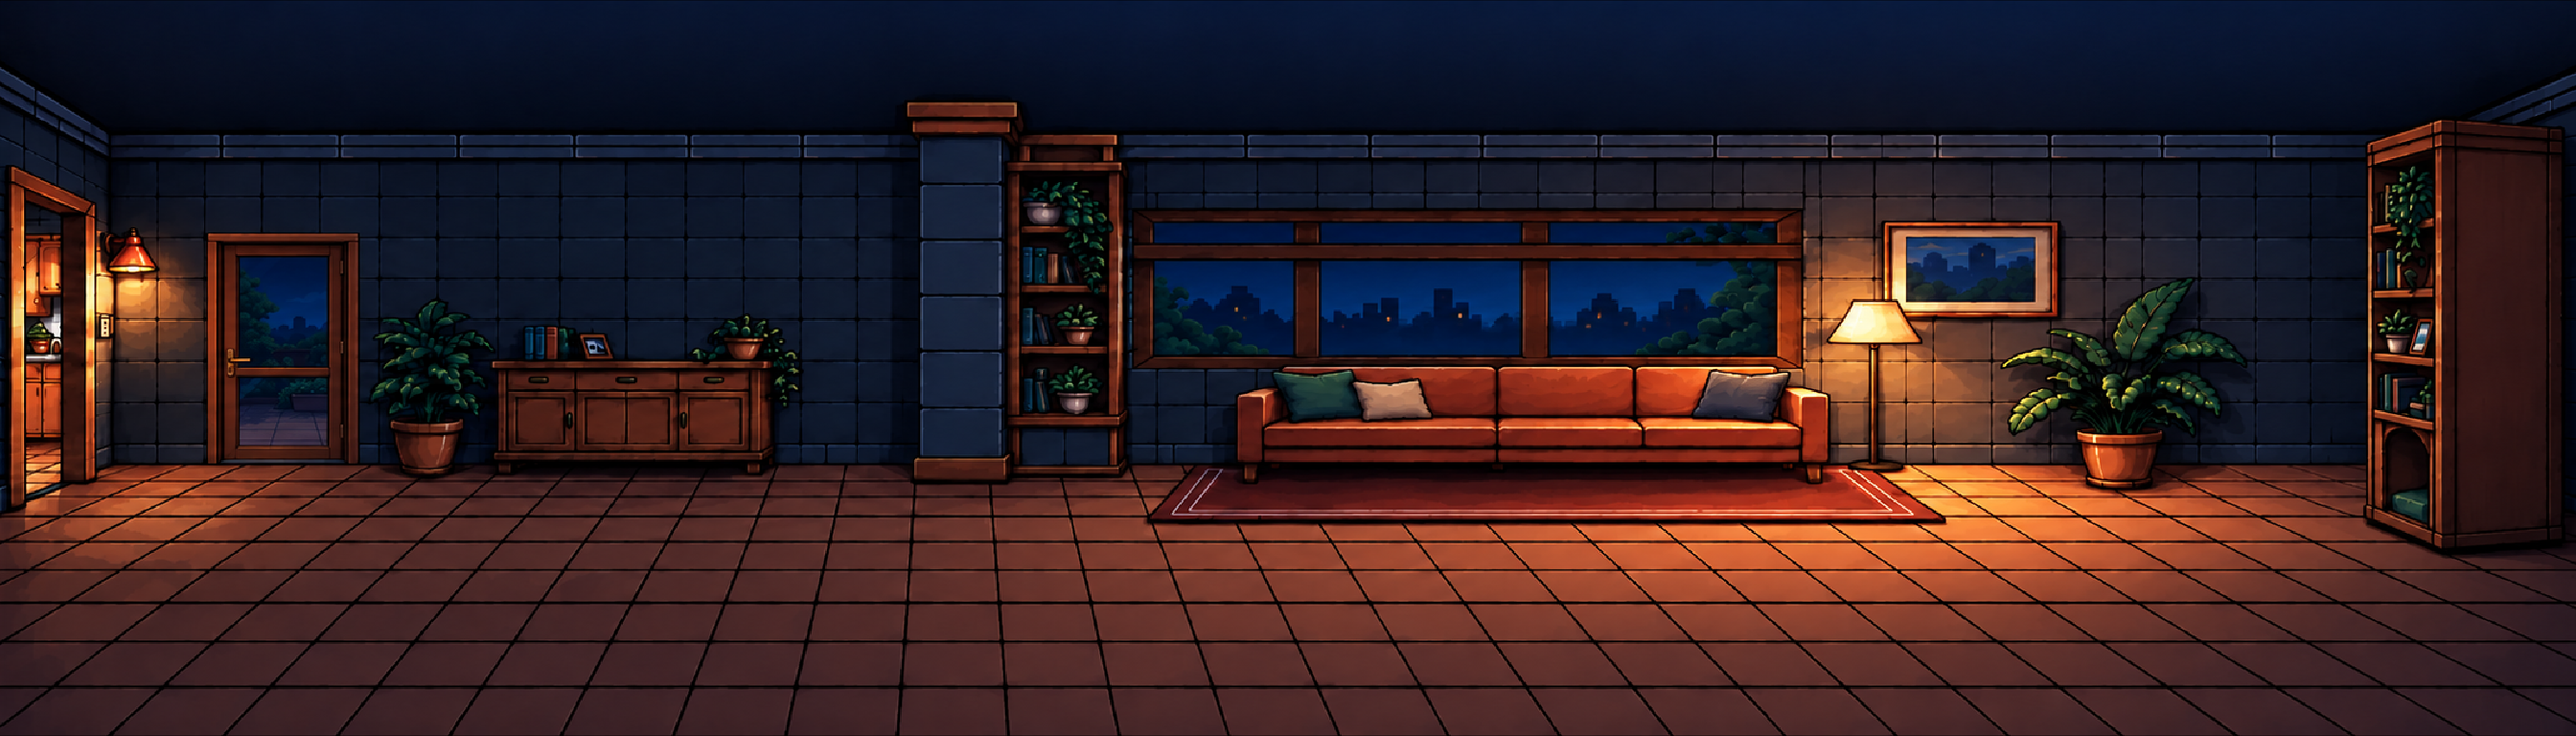
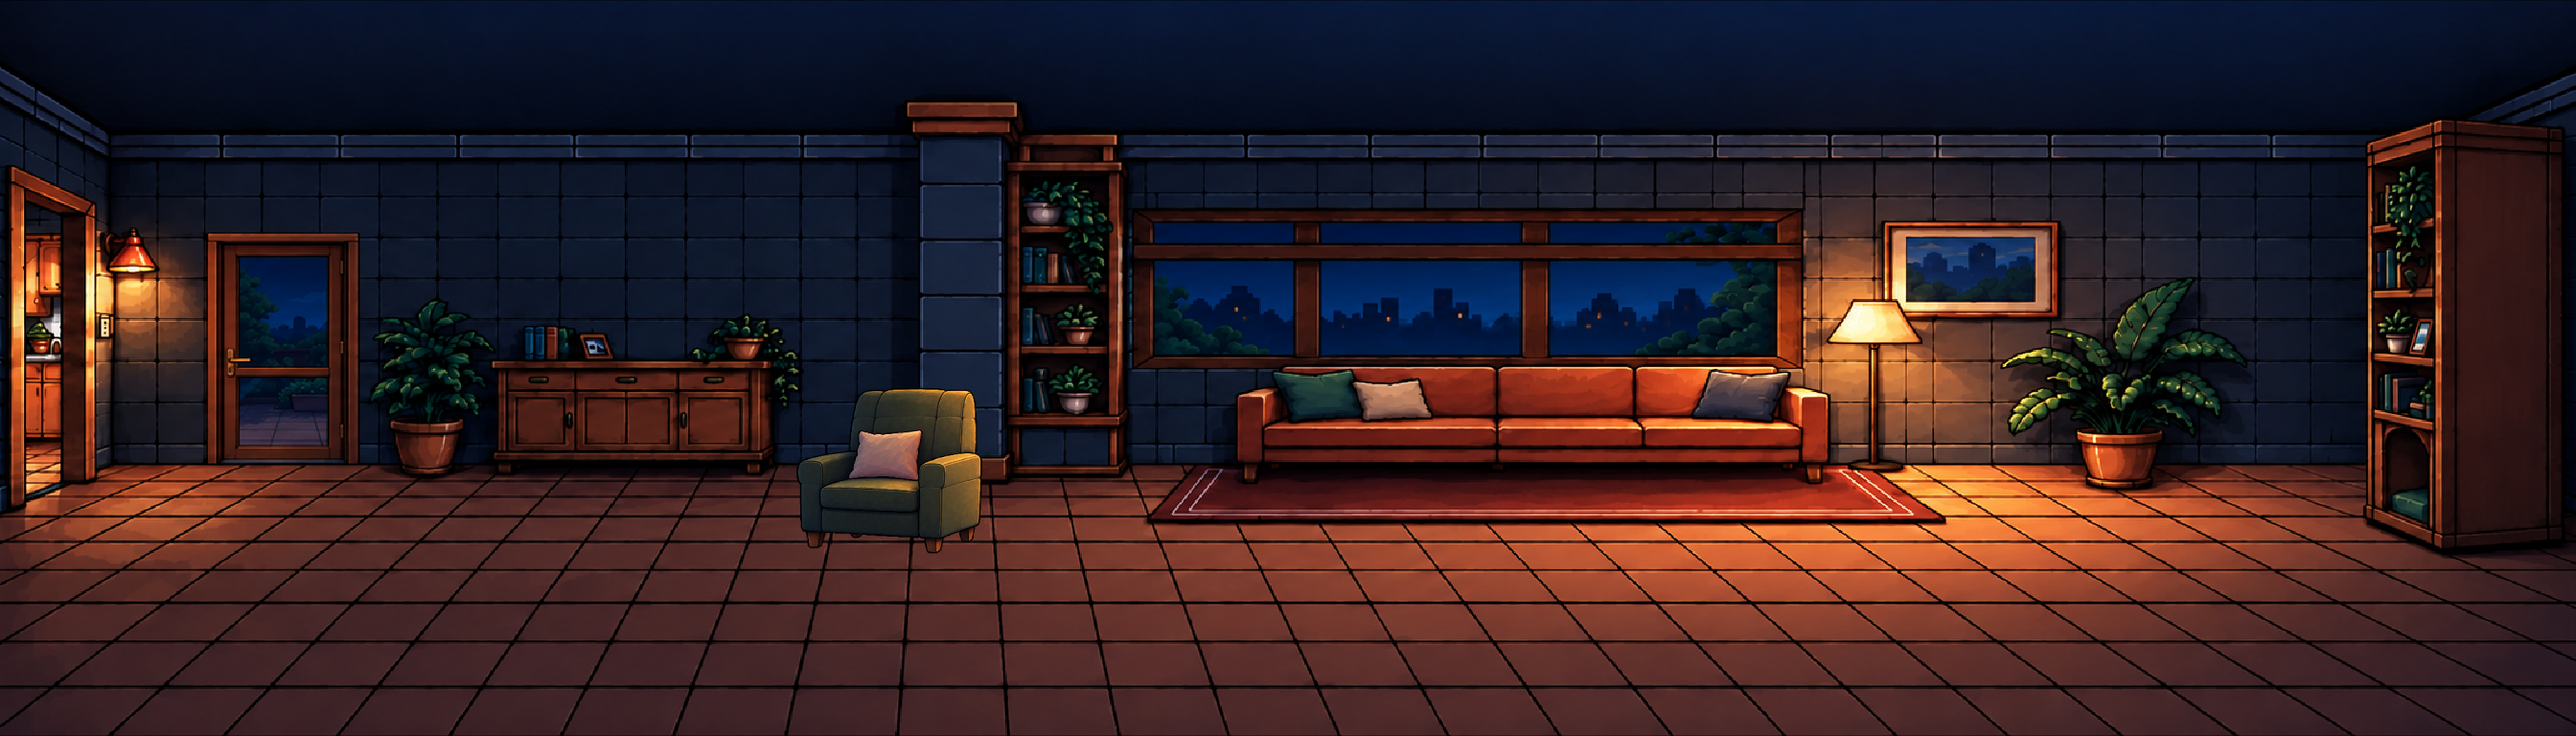
se acomoda al dueño en el living de noche

Changed region(s): [[0.3125, 0.5312, 0.4062, 0.75]]

diff --git a/GameProyect/NivelLivingNoche.cpp b/GameProyect/NivelLivingNoche.cpp
@@ -20,7 +20,7 @@ NivelLivingNoche::NivelLivingNoche()
     duenia->configurarReinicioFueraDeCamara();
 
     Enemigo* duenio = agregarEnemigo("images/Enemigos/frames_enemigo_sofa_borracho.png", //dueño
-        { 890.f, 530.f },
+        { 930.f, 570.f },
         600,
         724,
         { 0.52f, 0.53f },
@@ -109,15 +109,6 @@ NivelLivingNoche::NivelLivingNoche()
         { 0.13f , 0.13f },
         sf::FloatRect(0.f, 0.f, 100.f, 100.f)
     );
-
-    // Sillon individual
-    agregarMueble(
-        "images/6-living_noche/Muebles/sillon_individual_nocturno.png",
-        { 820.f, 400.f },
-        { 0.7f, 0.7f },
-        sf::FloatRect(42.f, 160.f, 0.f, 0.f)
-    );
-
 
     // Mesa chica izquierda
     agregarMueble(

diff --git a/GameProyect/Juego.cpp b/GameProyect/Juego.cpp
@@ -7,6 +7,7 @@
 #include "NivelPatio.h"
 #include "NivelHabitacion.h"
 #include "NivelCocinaNoche.h"
+#include "NivelLivingNoche.h"
 #include <iostream>
 #include <algorithm>
 
@@ -570,6 +571,8 @@ Nivel* Juego::crearNivel(int numero)
         return new NivelHabitacion();
     case 5:
         return new NivelCocinaNoche();
+    case 6:
+        return new NivelLivingNoche();
     default:
         return nullptr;
     }
